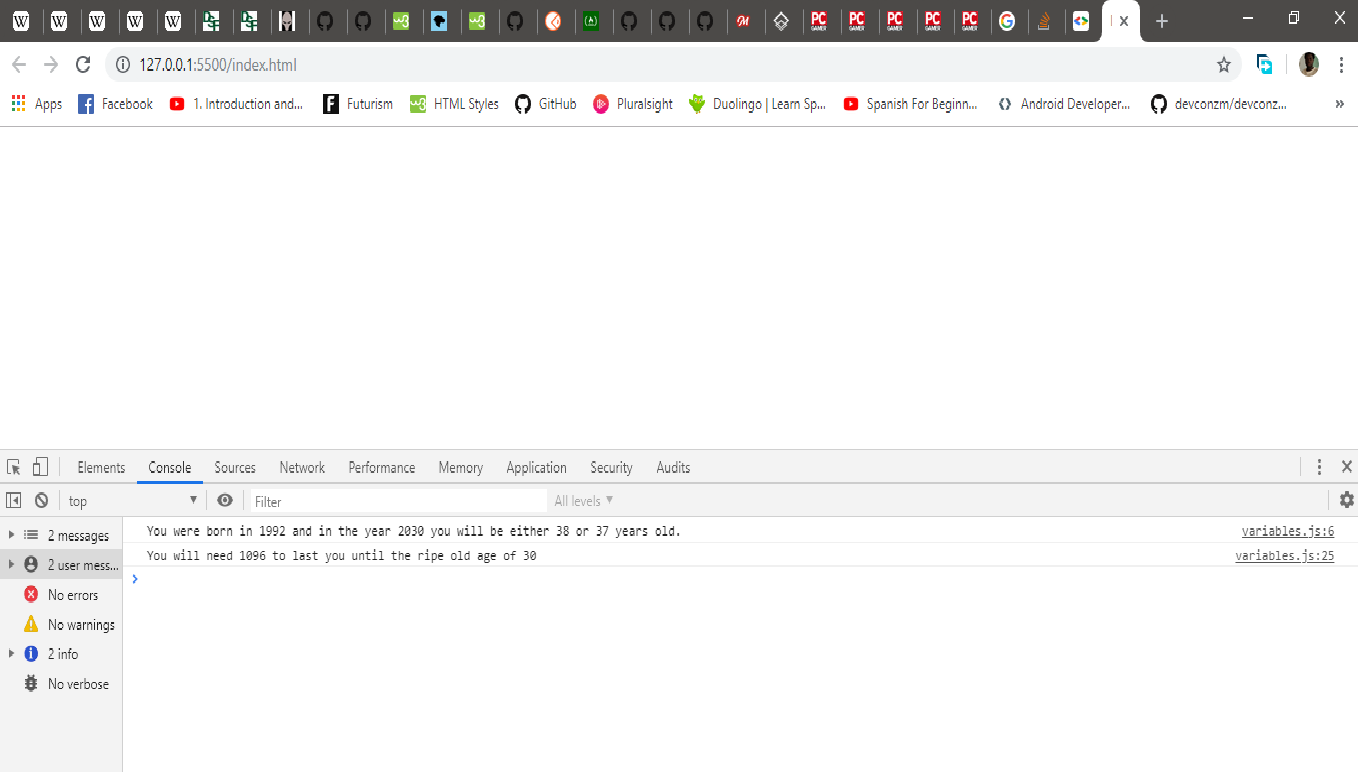
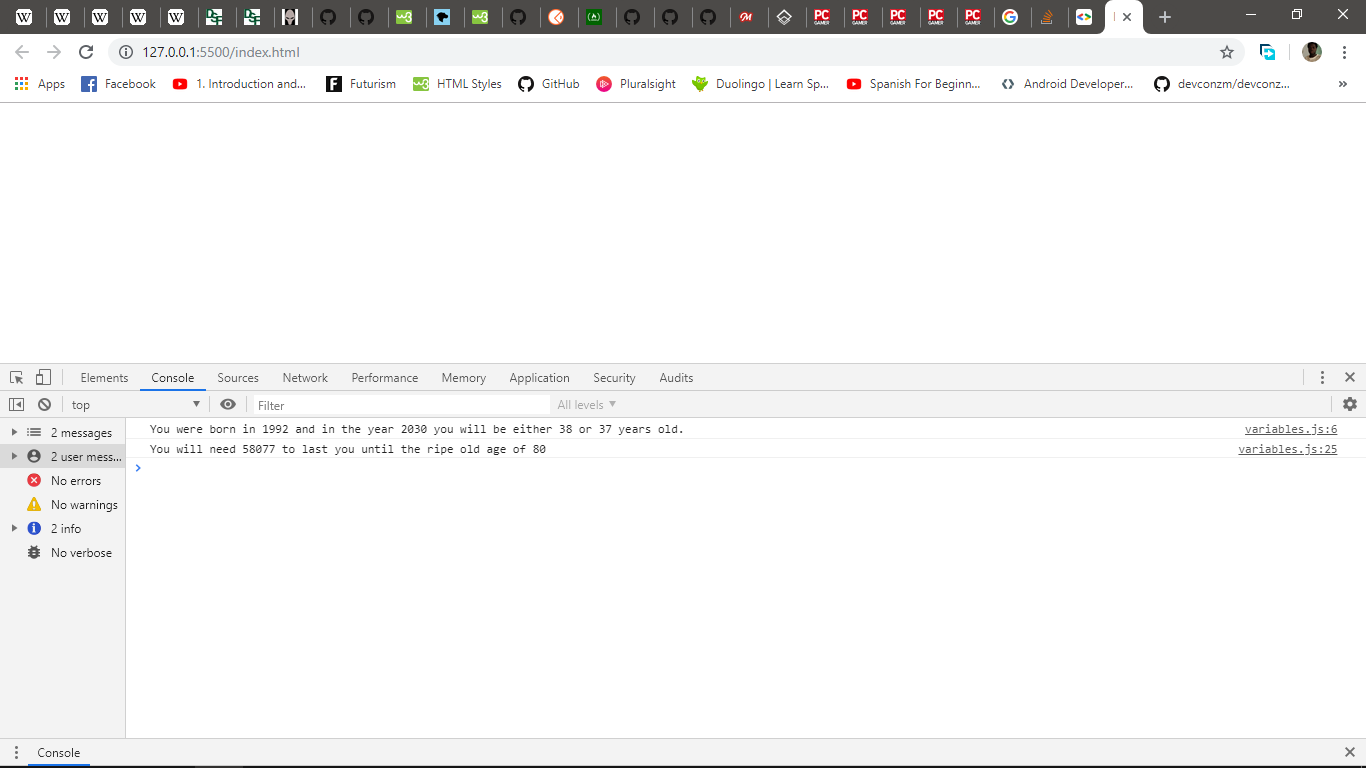
update

diff --git a/variables.js b/variables.js
@@ -6,8 +6,8 @@ var possibleAge2 = futureYear - birthYear - 1;
 console.log('You were born in ' + birthYear + ' and in the year ' + futureYear + ' you will be either ' + possibleAge1 + ' or ' + possibleAge2 + ' years old.')
 
 var currentAge = 27;
-var maximumAge = 30;
-var amountPerDay = 1;
+var maximumAge = 80;
+var amountPerDay = 3;
 var yearsOfLife = maximumAge - currentAge;
 var now = new Date().getFullYear();
 var endYear = now + yearsOfLife;
